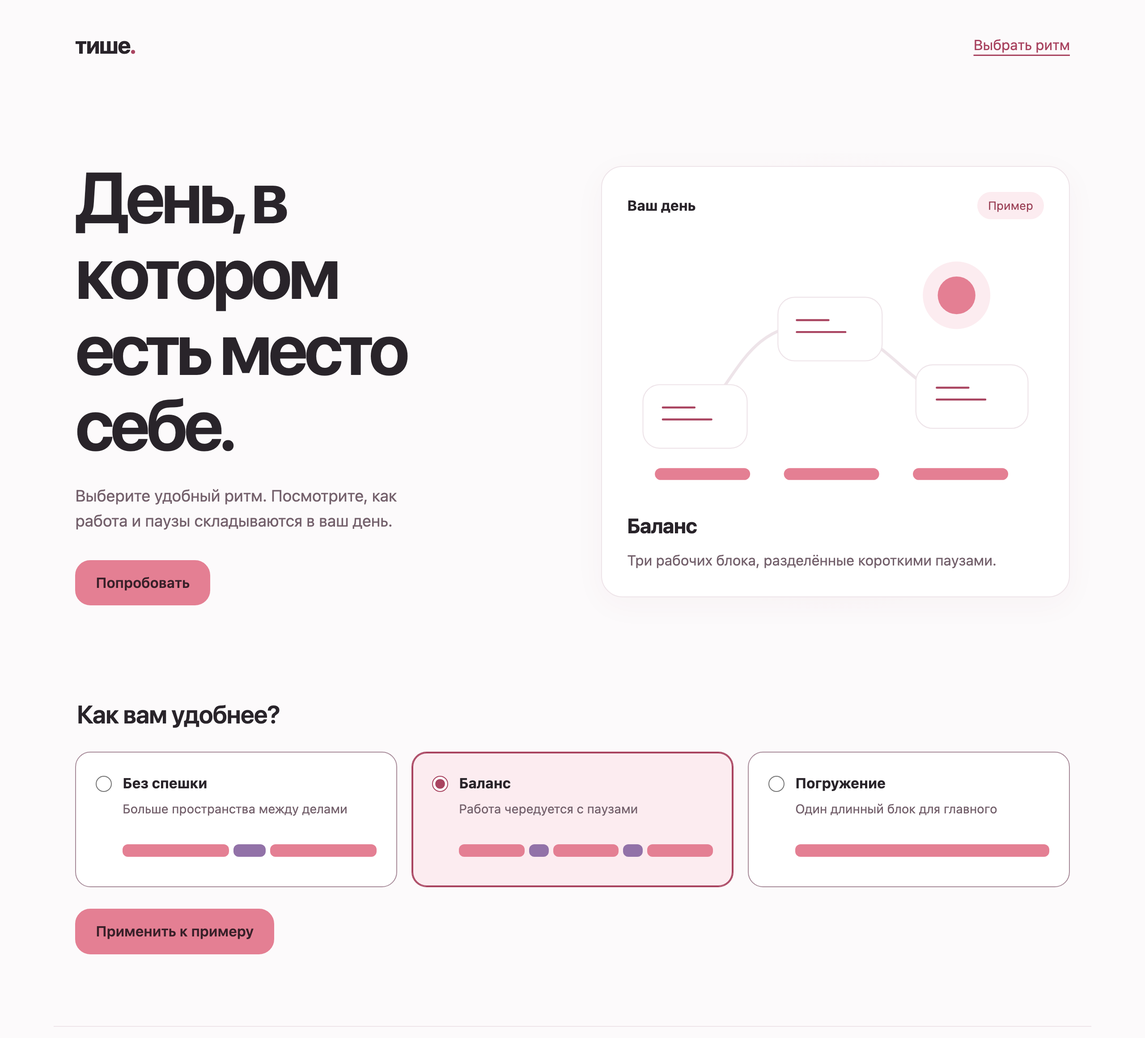
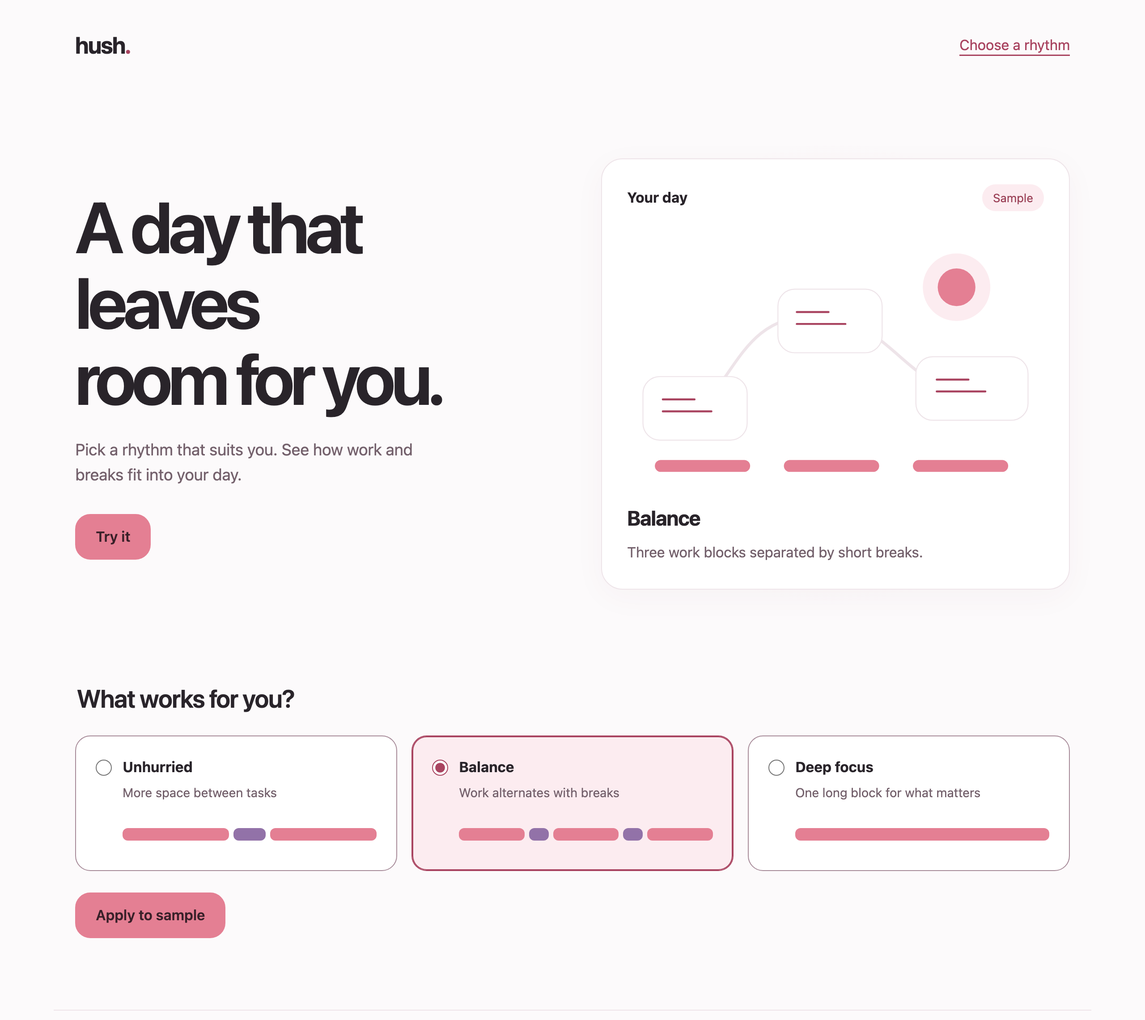
Translate the skill, starter and preview to English

diff --git a/skills/frontend-design/assets/interactive-starter.html b/skills/frontend-design/assets/interactive-starter.html
@@ -1,10 +1,10 @@
 <!doctype html>
-<html lang="ru">
+<html lang="en">
 <head>
   <meta charset="utf-8">
   <meta name="viewport" content="width=device-width, initial-scale=1">
   <meta name="theme-color" content="#fcfafb">
-  <title>Тише — пример визуального выбора</title>
+  <title>Hush, a visual choice example</title>
   <link rel="stylesheet" href="tokens.css">
   <style>
     .wrap { width: min(1160px, 100%); margin-inline: auto; padding-inline: 24px; }
@@ -48,19 +48,19 @@
   </style>
 </head>
 <body class="fd-theme">
-  <header class="wrap"><div class="brand">тише<span>.</span></div><a href="#choose">Выбрать ритм</a></header>
+  <header class="wrap"><div class="brand">hush<span>.</span></div><a href="#choose">Choose a rhythm</a></header>
   <main class="wrap">
     <section class="hero" aria-labelledby="title">
       <div>
-        <h1 id="title">День, в котором<br>есть место себе.</h1>
-        <p class="intro">Выберите удобный ритм. Посмотрите, как работа и паузы складываются в ваш день.</p>
-        <a class="fd-button fd-button--primary" href="#choose">Попробовать</a>
+        <h1 id="title">A day that leaves<br>room for you.</h1>
+        <p class="intro">Pick a rhythm that suits you. See how work and breaks fit into your day.</p>
+        <a class="fd-button fd-button--primary" href="#choose">Try it</a>
       </div>
-      <div class="preview fd-panel" aria-label="Предпросмотр ритма дня">
-        <div class="preview-top"><strong>Ваш день</strong><span class="badge">Пример</span></div>
+      <div class="preview fd-panel" aria-label="Day rhythm preview">
+        <div class="preview-top"><strong>Your day</strong><span class="badge">Sample</span></div>
         <svg class="day-art" viewBox="0 0 420 250" role="img" aria-labelledby="art-title art-desc">
-          <title id="art-title">Ритм дня: Баланс</title>
-          <desc id="art-desc">Три рабочих блока, разделённые короткими паузами.</desc>
+          <title id="art-title">Day rhythm: Balance</title>
+          <desc id="art-desc">Three work blocks separated by short breaks.</desc>
           <circle cx="332" cy="55" r="34" fill="#fcecf0"/>
           <circle cx="332" cy="55" r="19" fill="#e47f93"/>
           <path d="M25 192 C110 192 96 84 188 84 S285 192 395 155" fill="none" stroke="#eee4e9" stroke-width="3"/>
@@ -68,29 +68,29 @@
           <g stroke="#a94460" stroke-width="2" fill="none" stroke-linecap="round"><path d="M36 168h32m-32 12h49"/><path d="M171 80h32m-32 12h49"/><path d="M312 148h32m-32 12h49"/></g>
           <g id="rhythm-bars" fill="#e47f93"><rect x="28" y="229" width="96" height="12" rx="6"/><rect x="158" y="229" width="96" height="12" rx="6"/><rect x="288" y="229" width="96" height="12" rx="6"/></g>
         </svg>
-        <h2 id="preview-title">Баланс</h2>
-        <p id="preview-copy">Три рабочих блока, разделённые короткими паузами.</p>
+        <h2 id="preview-title">Balance</h2>
+        <p id="preview-copy">Three work blocks separated by short breaks.</p>
       </div>
     </section>
     <form id="choose">
       <fieldset>
-        <legend>Как вам удобнее?</legend>
+        <legend>What works for you?</legend>
         <div class="choices">
-          <label class="choice"><input type="radio" name="rhythm" value="gentle"><span><strong>Без спешки</strong><small>Больше пространства между делами</small><span class="mini" aria-hidden="true"><i></i><i class="pause"></i><i></i></span></span></label>
-          <label class="choice"><input type="radio" name="rhythm" value="balance" checked><span><strong>Баланс</strong><small>Работа чередуется с паузами</small><span class="mini" aria-hidden="true"><i></i><i class="pause"></i><i></i><i class="pause"></i><i></i></span></span></label>
-          <label class="choice"><input type="radio" name="rhythm" value="focus"><span><strong>Погружение</strong><small>Один длинный блок для главного</small><span class="mini" aria-hidden="true"><i></i></span></span></label>
+          <label class="choice"><input type="radio" name="rhythm" value="gentle"><span><strong>Unhurried</strong><small>More space between tasks</small><span class="mini" aria-hidden="true"><i></i><i class="pause"></i><i></i></span></span></label>
+          <label class="choice"><input type="radio" name="rhythm" value="balance" checked><span><strong>Balance</strong><small>Work alternates with breaks</small><span class="mini" aria-hidden="true"><i></i><i class="pause"></i><i></i><i class="pause"></i><i></i></span></span></label>
+          <label class="choice"><input type="radio" name="rhythm" value="focus"><span><strong>Deep focus</strong><small>One long block for what matters</small><span class="mini" aria-hidden="true"><i></i></span></span></label>
         </div>
       </fieldset>
-      <div class="form-bottom"><button class="fd-button fd-button--primary" type="submit">Применить к примеру</button><p id="status" role="status" aria-live="polite"></p></div>
-      <noscript><p>Чтобы переключать превью, включите JavaScript. Сейчас показан вариант «Баланс».</p></noscript>
+      <div class="form-bottom"><button class="fd-button fd-button--primary" type="submit">Apply to sample</button><p id="status" role="status" aria-live="polite"></p></div>
+      <noscript><p>Turn on JavaScript to switch the preview. The Balance option is shown now.</p></noscript>
     </form>
   </main>
-  <footer class="wrap">Демонстрация интерфейса. Выбор действует только на этой странице.</footer>
+  <footer class="wrap">Interface demo. Your choice applies to this page only.</footer>
   <script>
     const rhythms = {
-      gentle: { title: 'Без спешки', copy: 'Два небольших дела и длинная пауза между ними.', bars: [[28, 85], [300, 85]] },
-      balance: { title: 'Баланс', copy: 'Три рабочих блока, разделённые короткими паузами.', bars: [[28, 96], [158, 96], [288, 96]] },
-      focus: { title: 'Погружение', copy: 'Один длинный блок без переключений. Затем время отдохнуть.', bars: [[28, 356]] }
+      gentle: { title: 'Unhurried', copy: 'Two small tasks with a long break between them.', bars: [[28, 85], [300, 85]] },
+      balance: { title: 'Balance', copy: 'Three work blocks separated by short breaks.', bars: [[28, 96], [158, 96], [288, 96]] },
+      focus: { title: 'Deep focus', copy: 'One long block without switching. Then time to rest.', bars: [[28, 356]] }
     };
     const form = document.querySelector('#choose');
     const status = document.querySelector('#status');
@@ -99,7 +99,7 @@
       const rhythm = current();
       document.querySelector('#preview-title').textContent = rhythm.title;
       document.querySelector('#preview-copy').textContent = rhythm.copy;
-      document.querySelector('#art-title').textContent = 'Ритм дня: ' + rhythm.title;
+      document.querySelector('#art-title').textContent = 'Day rhythm: ' + rhythm.title;
       document.querySelector('#art-desc').textContent = rhythm.copy;
       const bars = rhythm.bars.map(([x, width]) => {
         const rect = document.createElementNS('http://www.w3.org/2000/svg', 'rect');
@@ -107,14 +107,14 @@
         return rect;
       });
       document.querySelector('#rhythm-bars').replaceChildren(...bars);
-      status.textContent = 'Предпросмотр: ' + rhythm.title + '. ' + rhythm.copy;
+      status.textContent = 'Preview: ' + rhythm.title + '. ' + rhythm.copy;
     });
     form.addEventListener('submit', (event) => {
       event.preventDefault();
-      document.querySelector('.badge').textContent = 'Применено';
-      status.textContent = 'К примеру применён ритм «' + current().title + '».';
+      document.querySelector('.badge').textContent = 'Applied';
+      status.textContent = 'Applied the ' + current().title + ' rhythm to the sample.';
     });
-    form.addEventListener('change', () => { document.querySelector('.badge').textContent = 'Пример'; });
+    form.addEventListener('change', () => { document.querySelector('.badge').textContent = 'Sample'; });
   </script>
 </body>
 </html>

diff --git a/skills/frontend-design/SKILL.md b/skills/frontend-design/SKILL.md
@@ -1,47 +1,53 @@
 ---
 name: frontend-design
-description: "Светлая розово-сливовая дизайн-система с CSS-токенами, справочником и интерактивным HTML-шаблоном. Используй, когда просят сделать, сверстать или переоформить сайт, лендинг, веб-приложение, desktop UI или компонент в этом стиле. Не нужен для backend и инфраструктуры. Если у проекта уже есть своя дизайн-система, не применяй скилл и следуй ей."
+description: >
+  Light pink-plum design system with CSS tokens, a design reference and an
+  interactive HTML starter. Use when asked to build, lay out or restyle a
+  site, landing page, web app, desktop UI or component in this style, or on
+  "сверстай в этом стиле", "розовый стиль". Not for backend or
+  infrastructure. When the project already has its own design system, do not
+  apply this skill and follow that system.
 ---
 
 # Frontend design
 
-Создавай спокойные, светлые, понятные интерфейсы в одной визуальной семье. Сохраняй узнаваемые тона и характер, но выбирай композицию, образы и сценарии под конкретный продукт. Явное новое пожелание пользователя имеет приоритет.
+Build calm, light and clear interfaces from one visual family. Keep the recognizable tones and character, but choose the composition, imagery and scenarios for the specific product. A new explicit request from the user takes priority.
 
-Все файлы скилла лежат в `${CLAUDE_SKILL_DIR}`, это папка с данным SKILL.md. Claude Code подставляет путь сам. Если в тексте (в том числе в references) переменная осталась как есть, считай её папкой, где лежит SKILL.md.
+All skill files live in `${CLAUDE_SKILL_DIR}`, the folder that contains this SKILL.md. Claude Code substitutes the path. If the variable is left as is anywhere in the text, references included, read it as the folder that contains SKILL.md.
 
-## Основа стиля
+## Style basics
 
-- Почти белый фон с розовым подтоном, белые поверхности, пыльно-розовый акцент, глубокая роза для ссылок и активных подписей. Приглушённый сливовый служит вторичным акцентом.
-- Много воздуха, тонкие границы, мягкие скругления разных размеров. Тени едва заметны и объясняют слой или движение.
-- Спокойный sans-serif с поддержкой языка интерфейса, ясная иерархия. Крупный лаконичный заголовок подходит лендингу; в рабочем приложении важнее компактность и обзор.
-- Розовый обозначает главное действие или выбор. Не окрашивай в него весь экран; ошибки и успех имеют собственную семантику.
-- Простые контурные иконки, реальные превью, понятные схемы. Один выразительный визуальный центр лучше россыпи украшений.
-- Не превращай каждую строку в отдельную карточку. Связанные объекты удобно группировать в одну поверхность с разделителями.
+- An almost white background with a pink tint, white surfaces, a dusty pink accent, and a deep rose for links and active labels. A muted plum is the secondary accent.
+- Plenty of air, thin borders, soft radii in several sizes. Shadows are barely visible and explain a layer or a movement.
+- A calm sans-serif that covers the interface language, with a clear hierarchy. A large concise heading suits a landing page; in a working app, density and overview matter more.
+- Pink marks the main action or a choice. Do not paint the whole screen with it; errors and success have their own semantic colors.
+- Simple outline icons, real previews, clear diagrams. One expressive visual center beats a scatter of decorations.
+- Do not turn every row into a separate card. Related objects group well into one surface with dividers.
 
-## Приоритеты взаимодействия
+## Interaction priorities
 
-**Интерактивное взаимодействие лучше обычного ввода.** Сначала ищи способ выбрать, переключить, передвинуть, сравнить или попробовать с немедленной обратной связью. Для конечного набора вариантов используй визуальные карточки или сегменты, для диапазона подойдёт ползунок с видимым значением и точным вводом, когда он нужен, для связей управляемая схема. Оставляй текстовые поля для текста, поиска и произвольных точных данных. Интерактивность уместна там, где сокращает усилия; игра поверх простой задачи лишняя.
+**Interaction beats plain input.** First look for a way to choose, toggle, drag, compare or try something with immediate feedback. For a finite set of options use visual cards or segments, for a range a slider with a visible value and exact input when it is needed, for relations a controllable diagram. Keep text fields for text, search and arbitrary exact data. Interactivity belongs where it cuts effort; a game on top of a simple task is too much.
 
-**Картинки лучше длинного текста.** Покажи результат настоящим скриншотом, предметной иллюстрацией, превью или схемой и добавь короткую подпись. Живой пример предпочтительнее описания его возможностей. Иконка не заменяет смысловую картинку. Названия действий, ошибки, значения и доступные подписи сохраняй; не прячь важный текст внутри изображения. Используй имеющиеся ассеты или доступный инструмент генерации, когда это полезно; для схем подходят SVG/CSS. Не требуй конкретного MCP или генератора.
+**Pictures beat long text.** Show the result with a real screenshot, a subject illustration, a preview or a diagram, and add a short caption. A live example is better than a description of its features. An icon does not replace a meaningful picture. Keep action names, errors, values and accessible labels as text, never hidden inside an image. Use existing assets or an available generation tool when it helps; SVG and CSS suit diagrams. Do not require a specific MCP server or generator.
 
-**Простота лучше многофункциональности.** Выделяй одну главную задачу экрана и основной следующий шаг. Предлагай разумные значения по умолчанию, раскрывай редкие настройки по запросу. Не добавляй тарифы, аналитику, фильтры, дополнительные страницы и настройки без потребности. Явно запрошенные функции сохраняй и упрощай путь к ним.
+**Simplicity beats feature count.** Pick one main task per screen and one main next step. Offer sensible defaults and reveal rare settings on demand. Do not add pricing, analytics, filters, extra pages or settings without a need. Keep explicitly requested features and shorten the path to them.
 
-## Как работать
+## Workflow
 
-1. Посмотри существующий стек, компоненты, контент и ассеты. Определи главную задачу человека. Обычно контекста достаточно: принимай обратимые решения самостоятельно.
-2. Прочитай `${CLAUDE_SKILL_DIR}/references/design-system.md` для палитры, размеров и композиций. Выбери масштаб под задачу (лендинг или рабочий интерфейс). При точечной правке сохраняй соседние паттерны, не запускай незапрошенный полный редизайн.
-3. Используй `${CLAUDE_SKILL_DIR}/assets/tokens.css` как исходную тему. Переноси токены в CSS variables, Tailwind, MUI или существующую систему проекта без замены его стека. Для нового интерфейса или визуального выбора открой `${CLAUDE_SKILL_DIR}/assets/interactive-starter.html`, автономный рабочий пример с SVG-превью, карточками выбора и обратной связью. Копируй нужные части вместе с CSS и адаптируй данные и композицию.
-4. Реализуй настоящий основной сценарий. В демонстрации явно обозначай её границы. В продукте связывай действия с состоянием и существующим API; сообщение об успехе должно означать реальный успех.
-5. Проверь узкий и широкий экран, клавиатуру, длинные подписи, состояния выбора и ошибки. При доступном браузере посмотри скриншоты и пройди главный сценарий. Если браузер недоступен, сообщи ограничение проверки, не заявляй о визуальном тестировании.
+1. Look at the existing stack, components, content and assets. Identify the person's main task. The context is usually enough, so make reversible decisions on your own.
+2. Read `${CLAUDE_SKILL_DIR}/references/design-system.md` for the palette, sizes and layouts. Pick the scale for the task, a landing page or a working interface. For a targeted edit, keep the neighbouring patterns and do not start an unrequested full redesign.
+3. Use `${CLAUDE_SKILL_DIR}/assets/tokens.css` as the base theme. Carry the tokens into CSS variables, Tailwind, MUI or the project's existing system without replacing its stack. For a new interface or a visual choice, open `${CLAUDE_SKILL_DIR}/assets/interactive-starter.html`, a self-contained working example with an SVG preview, choice cards and feedback. Copy the parts you need together with their CSS and adapt the data and composition.
+4. Implement the real main scenario. In a demo, state its limits clearly. In a product, wire actions to state and the existing API; a success message must mean real success.
+5. Check narrow and wide screens, the keyboard, long labels, selection states and errors. With a browser available, look at screenshots and walk through the main scenario. Without one, report that limit and do not claim visual testing.
 
-## Критерии готовности
+## Definition of done
 
-- Понятно, что здесь можно сделать, без чтения длинной инструкции.
-- Есть содержательный визуальный пример там, где он объясняет лучше абзаца; управление сразу показывает результат.
-- Палитра остаётся мягкой, текст читается: не ставь белые мелкие буквы на светло-розовый. Проверяй контраст итоговых сочетаний, включая выбранные и отключённые состояния.
-- Управление доступно с клавиатуры, фокус видим, размер цели комфортен для касания. Drag-and-drop имеет путь через кнопки или выбор; hover не единственный способ узнать или сделать что-то.
-- У изображений есть осмысленный alt, декоративным ставь пустой alt или aria-hidden. Статус понятен и без цвета, через текст или значок. Анимация учитывает prefers-reduced-motion.
-- На мобильном нет горизонтального переполнения и спрятанных главных действий. Длинные имена и переводы не ломают сетку.
-- Нет мёртвых кнопок, декоративных графиков с выдуманными показателями, бесконечной анимации и незапрошенных возможностей.
+- It is clear what can be done here without reading long instructions.
+- A meaningful visual example stands where it explains better than a paragraph, and controls show the result right away.
+- The palette stays soft and text stays readable, so no small white letters on light pink. Check the contrast of the final combinations, selected and disabled states included.
+- Controls work from the keyboard, focus is visible, targets are comfortable to tap. Drag and drop has a path through buttons or selection, and hover is never the only way to learn or do something.
+- Images have meaningful alt text, decorative ones get an empty alt or aria-hidden. Status is clear without color, through text or an icon. Animation respects prefers-reduced-motion.
+- On mobile there is no horizontal overflow and no hidden main action. Long names and translations do not break the grid.
+- No dead buttons, no decorative charts with made-up numbers, no endless animation and no unrequested features.
 
-Для применения этого скилла сеть не нужна: палитра, примеры и шаблон находятся здесь.
+The skill needs no network. The palette, examples and starter are all in this folder.

diff --git a/README.md b/README.md
@@ -2,7 +2,7 @@
 
 Light pink-plum design system for sites, web apps and desktop UI, with CSS tokens and an interactive HTML starter.
 
-A skill for Claude Code and Codex. The agent applies the style when you ask for a site, landing page, web app or component in it. Instructions are written in Russian.
+A skill for Claude Code and Codex. The agent applies the style when you ask for a site, landing page, web app or component in it.
 
 ![Interactive starter with a day planning demo, rendered in Chrome](docs/preview.png)
 
@@ -30,7 +30,7 @@ A project with its own design system keeps it, and the skill stays out of backen
 The skill loads on requests like these. To call it explicitly in Claude Code, run `/frontend-design:frontend-design`.
 
 ```text
-сверстай лендинг в этом стиле
+lay out a landing page in this style
 build a settings screen for the web app in this style
 ```
 
